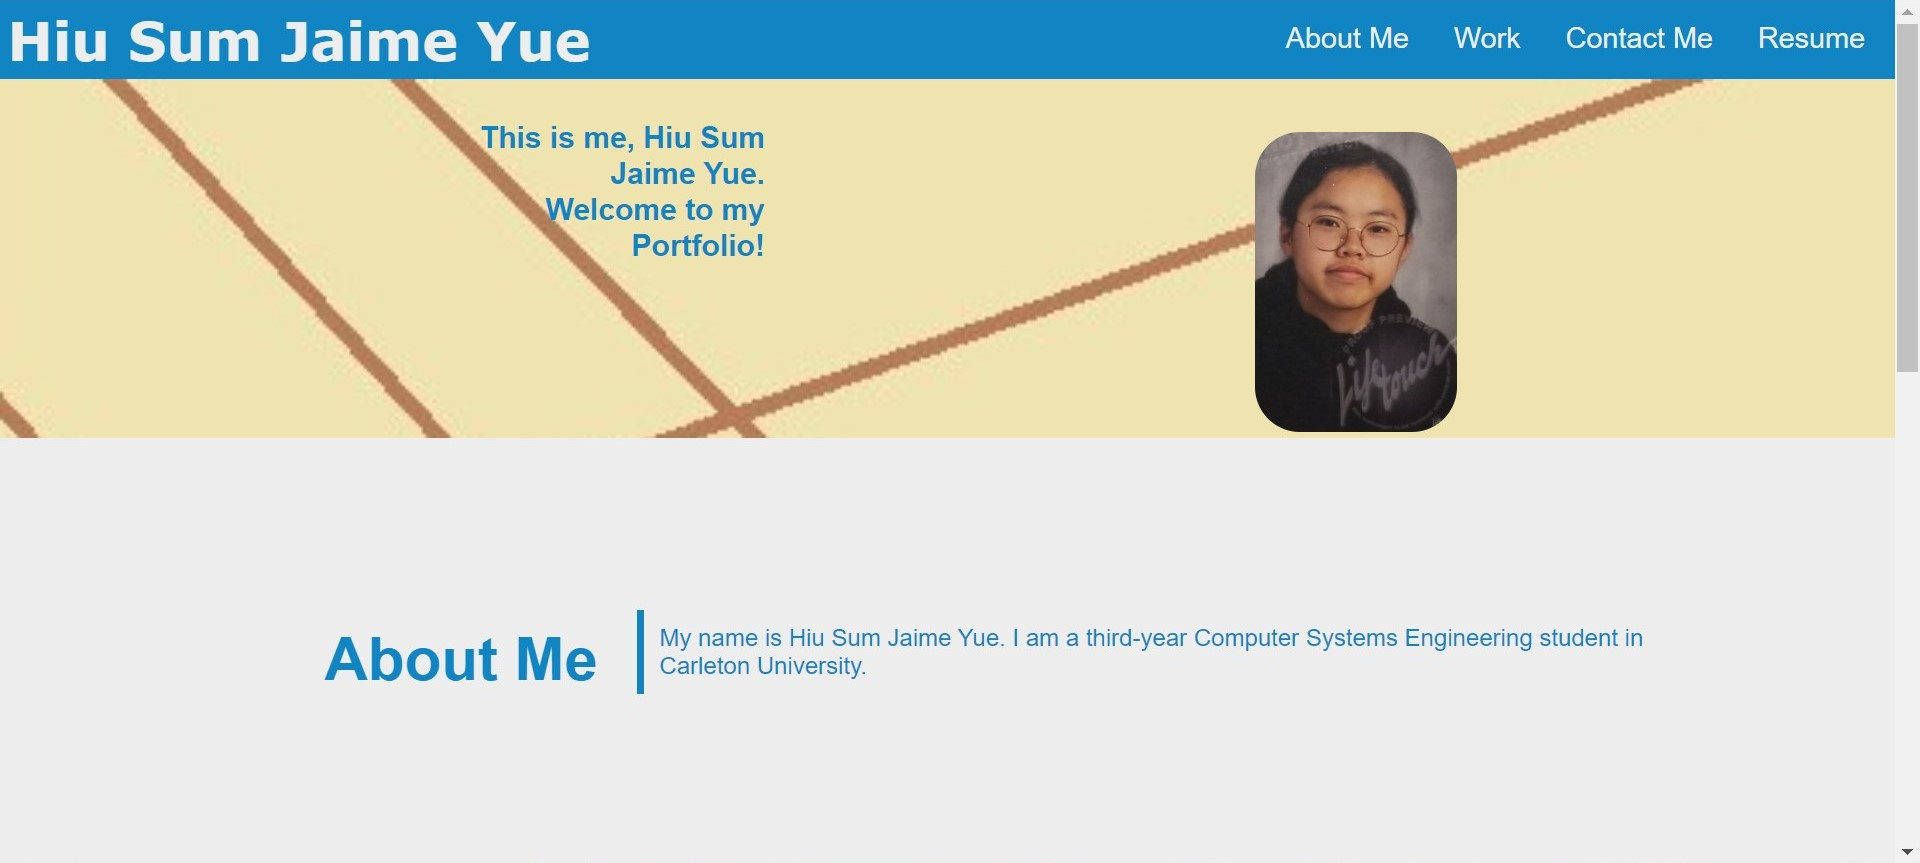
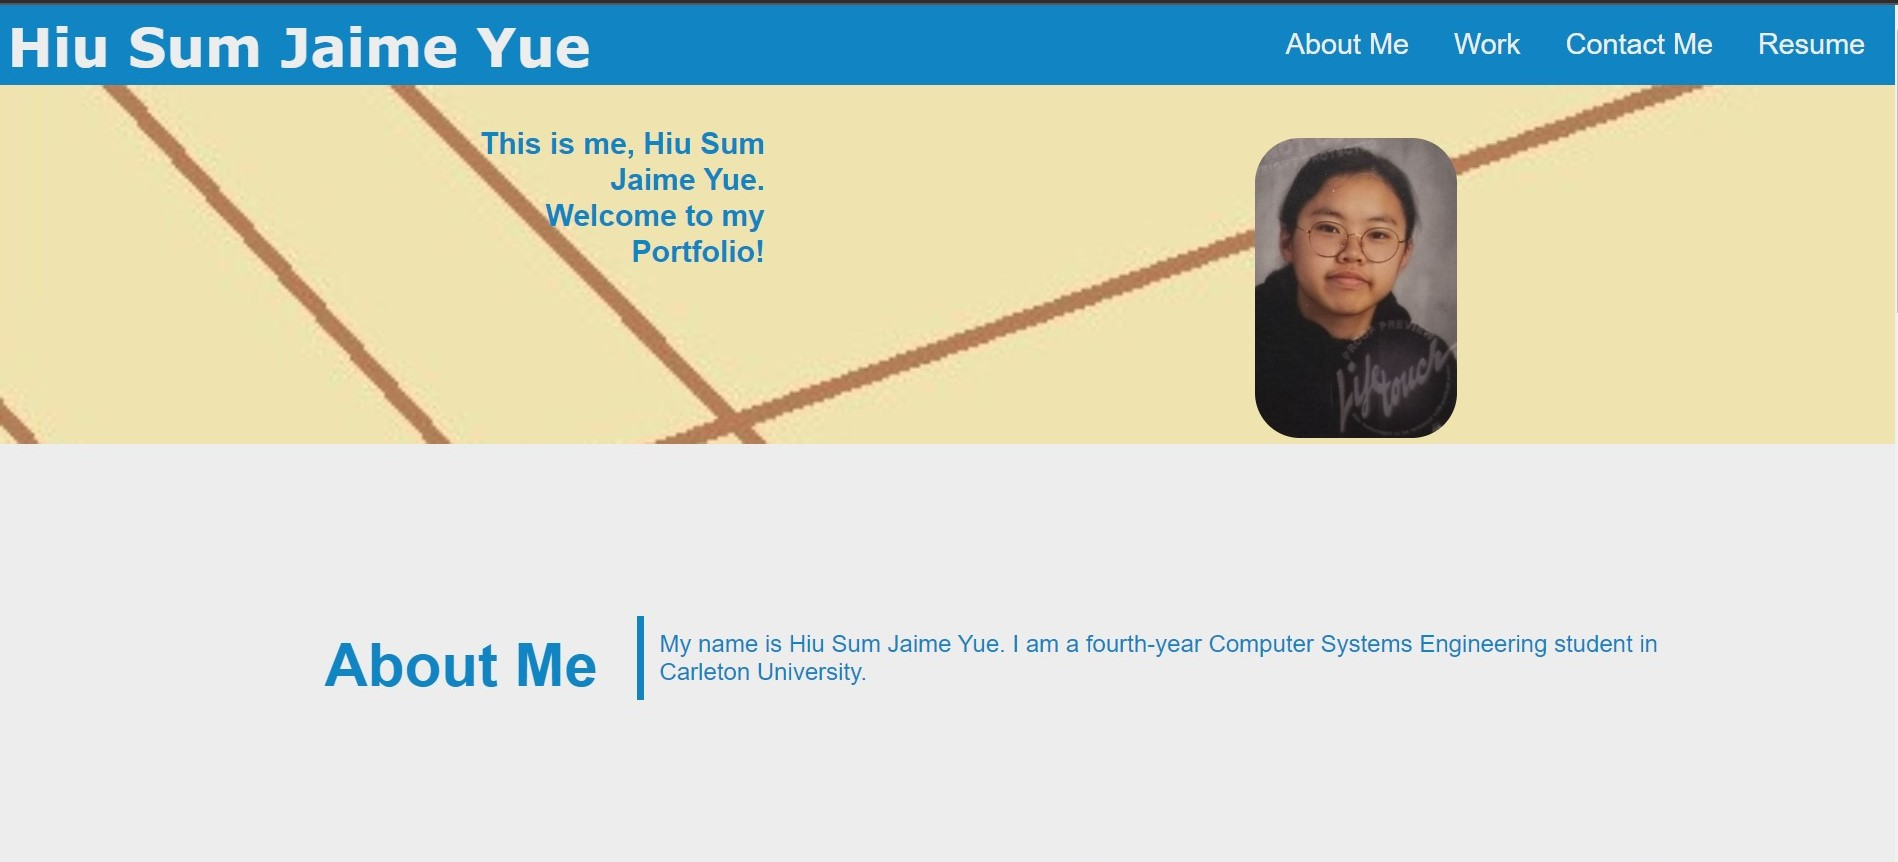
Update About Me

diff --git a/index.html b/index.html
@@ -47,7 +47,7 @@
     <h2 class="section-title">About Me</h2>
     <div class="me-text">
       <p>
-        My name is Hiu Sum Jaime Yue. I am a third-year Computer Systems
+        My name is Hiu Sum Jaime Yue. I am a fourth-year Computer Systems
         Engineering student in Carleton University.
       </p>
     </div>
